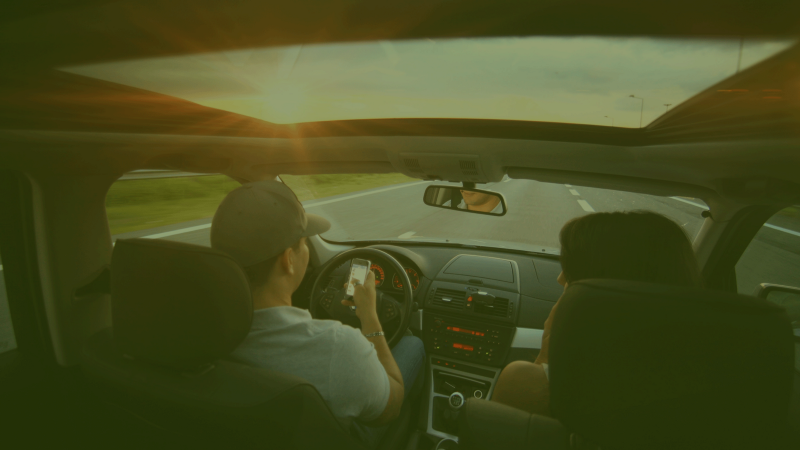
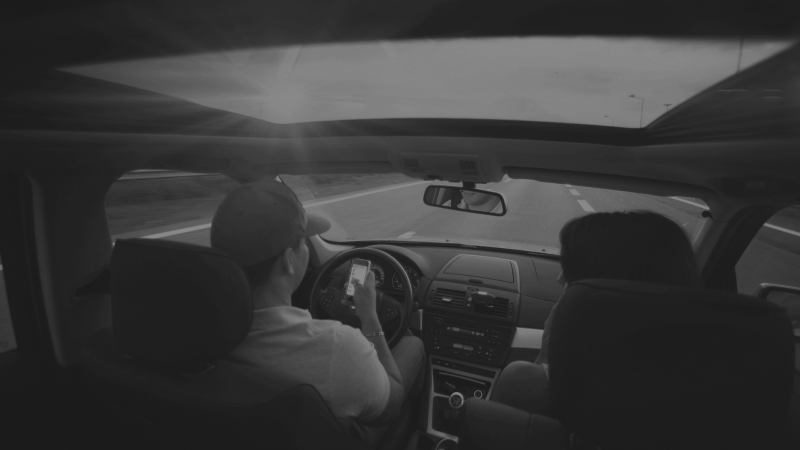
Modified B&W rides images/ centered login & register boxes

diff --git a/src/pages/register-modal/register-modal.html b/src/pages/register-modal/register-modal.html
@@ -1,18 +1,59 @@
-<!--
-  Generated template for the RegisterModalPage page.
+<ion-content class="login-content" padding>
+  <ion-grid style="height: 100%">
+    <ion-row justify-content-center align-items-center style="height: 100%">
+      <div class="login-box">
 
-  See http://ionicframework.com/docs/components/#navigation for more info on
-  Ionic pages and navigation.
--->
-<ion-header>
+        <form #registerForm="ngForm">
+          <ion-row>
+            <ion-col>
+              <ion-list inset>
 
-  <ion-navbar>
-    <ion-title>register-modal</ion-title>
-  </ion-navbar>
+                <ion-item>
+                  <ion-input type="text" placeholder="Full name" name="fullName" required></ion-input>
+                </ion-item>
 
-</ion-header>
+                <ion-item>
+                  <ion-label>Date of birth</ion-label>
+                  <ion-datetime displayFormat="DD MMM YYYY"></ion-datetime>
+                </ion-item>
 
+                <ion-item>
+                  <ion-label>Department</ion-label>
+                  <ion-select>
+                    <ion-option>Software Engineering</ion-option>
+                    <ion-option>Mechanical Engineering</ion-option>
+                    <ion-option>Process Engineering</ion-option>
+                    <ion-option>Electrical Engineering</ion-option>
+                    <ion-option>Architecture</ion-option>
+                    <ion-option>Business</ion-option>
+                  </ion-select>
+                </ion-item>
 
-<ion-content padding>
+                <ion-item>
+                  <ion-input type="email" placeholder="Email" name="email" required></ion-input>
+                </ion-item>
 
+                <ion-item>
+                  <ion-input type="password" placeholder="Password" name="password" required></ion-input>
+                </ion-item>
+
+                <ion-item>
+                  <ion-input type="password" placeholder="Password confirmation" name="password" required></ion-input>
+                </ion-item>
+
+              </ion-list>
+            </ion-col>
+          </ion-row>
+
+          <ion-row>
+            <ion-col class="signup-col">
+              <button ion-button class="submit-btn" full type="submit">Register</button>
+              <button ion-button class="register-btn" clear (click)="dismiss()">Cancel</button>
+            </ion-col>
+          </ion-row>
+
+        </form>
+      </div>
+    </ion-row>
+  </ion-grid>
 </ion-content>

diff --git a/src/pages/login/login.html b/src/pages/login/login.html
@@ -1,30 +1,34 @@
-<ion-content class="login-content" padding>
-  <div class="login-box">
+<ion-content class="login-content" padding no-bounce center>
+  <ion-grid style="height: 100%">
+    <ion-row justify-content-center align-items-center style="height: 100%">
+      <div class="login-box">
 
-    <form #registerForm="ngForm">
-      <ion-row>
-        <ion-col>
-          <ion-list inset>
+        <form #registerForm="ngForm">
+          <ion-row>
+            <ion-col>
+              <ion-list inset>
 
-            <ion-item>
-              <ion-input type="text" placeholder="Email" name="email" required></ion-input>
-            </ion-item>
+                <ion-item>
+                  <ion-input type="text" placeholder="Email" name="email" required></ion-input>
+                </ion-item>
 
-            <ion-item>
-              <ion-input type="password" placeholder="Password" name="password" required></ion-input>
-            </ion-item>
+                <ion-item>
+                  <ion-input type="password" placeholder="Password" name="password" required></ion-input>
+                </ion-item>
 
-          </ion-list>
-        </ion-col>
-      </ion-row>
+              </ion-list>
+            </ion-col>
+          </ion-row>
 
-      <ion-row>
-        <ion-col class="signup-col">
-          <button ion-button class="submit-btn" full type="submit" (click)="login()">Login</button>
-          <button ion-button class="register-btn" block clear>Create New Account</button>
-        </ion-col>
-      </ion-row>
+          <ion-row>
+            <ion-col class="signup-col">
+              <button ion-button class="submit-btn" full type="submit" (click)="login()">Login</button>
+              <button ion-button class="register-btn" block clear (click)="register()">Create New Account</button>
+            </ion-col>
+          </ion-row>
 
-    </form>
-  </div>
+        </form>
+      </div>
+    </ion-row>
+  </ion-grid>
 </ion-content>

diff --git a/src/app/app.module.ts b/src/app/app.module.ts
@@ -1,6 +1,6 @@
 import { NgModule, ErrorHandler } from '@angular/core';
 import { BrowserModule } from '@angular/platform-browser';
-import { IonicApp, IonicModule, IonicErrorHandler, NavController } from 'ionic-angular';
+import { IonicApp, IonicModule, IonicErrorHandler } from 'ionic-angular';
 import { MyApp } from './app.component';
 
 import { TabsPage } from '../pages/tabs/tabs';
@@ -12,6 +12,7 @@ import { HomePage } from "../pages/home/home";
 import { RidesPage } from "../pages/rides/rides";
 import { LoginPage } from "../pages/login/login";
 import { TabsProvider } from '../providers/tabs/tabs';
+import { RegisterModalPageModule } from "../pages/register-modal/register-modal.module";
 
 @NgModule({
   declarations: [
@@ -20,11 +21,12 @@ import { TabsProvider } from '../providers/tabs/tabs';
     ProfilePage,
     HomePage,
     RidesPage,
-    TabsPage
+    TabsPage,
   ],
   imports: [
     BrowserModule,
-    IonicModule.forRoot(MyApp)
+    IonicModule.forRoot(MyApp),
+    RegisterModalPageModule
   ],
   bootstrap: [IonicApp],
   entryComponents: [
@@ -33,7 +35,7 @@ import { TabsProvider } from '../providers/tabs/tabs';
     LoginPage,
     HomePage,
     RidesPage,
-    TabsPage
+    TabsPage,
   ],
   providers: [
     StatusBar,

diff --git a/src/pages/profile/profile.ts b/src/pages/profile/profile.ts
@@ -1,5 +1,5 @@
 import { Component } from '@angular/core';
-import { NavController, NavParams } from 'ionic-angular';
+import { NavController, NavParams, AlertController, LoadingController } from 'ionic-angular';
 import { TabsProvider } from "../../providers/tabs/tabs";
 
 @Component({
@@ -13,12 +13,33 @@ export class ProfilePage {
 
   constructor(public navCtrl: NavController
     , public navParams: NavParams
-    , public tabsProvider: TabsProvider) {
+    , public tabsProvider: TabsProvider
+    , public alertCtrl: AlertController
+    , public loadingCtrl: LoadingController) {
 
   }
 
-  logout(){
-    this.tabsProvider.updateLoggedState(false);
+  logout() {
+    const confirm = this.alertCtrl.create({
+      title: "Logout ?",
+      buttons: [
+        {
+          text: 'Cancel',
+        },
+        {
+          text: 'Logout',
+          handler: () => {
+            const loader = this.loadingCtrl.create({
+              content: "Logging out...",
+              duration: 1500
+            });
+            loader.present();
+            this.tabsProvider.updateLoggedState(false);
+          }
+        }
+      ]
+    });
+    confirm.present();
   }
 
 }

diff --git a/src/pages/login/login.ts b/src/pages/login/login.ts
@@ -1,7 +1,7 @@
 import { Component } from '@angular/core';
-import { NavController, ModalController, NavParams } from 'ionic-angular';
-import { ProfilePage } from "../profile/profile";
+import { NavController, ModalController, NavParams, ToastController } from 'ionic-angular';
 import { TabsProvider } from "../../providers/tabs/tabs";
+import { RegisterModalPage } from "../register-modal/register-modal";
 
 @Component({
   selector: 'page-login',
@@ -13,12 +13,22 @@ import { TabsProvider } from "../../providers/tabs/tabs";
 export class LoginPage {
 
   constructor(public navCtrl: NavController
-    , public modalController: ModalController
+    , public modalCtrl: ModalController
     , public navParams: NavParams
-    , public tabsProvider: TabsProvider) { }
+    , public tabsProvider: TabsProvider
+    , public toastCtrl: ToastController) { }
 
   login() {
     this.tabsProvider.updateLoggedState(true);
+    let toast = this.toastCtrl.create({
+       message: 'Logged in successfully',
+       duration: 1500
+     });
+     toast.present();
+  }
+
+  register(){
+    this.modalCtrl.create(RegisterModalPage).present();
   }
 
 }

diff --git a/src/pages/register-modal/register-modal.scss b/src/pages/register-modal/register-modal.scss
@@ -1,3 +1,54 @@
 page-register-modal {
+  .login-content {
+    background: #2c3e50;
 
+    ::-webkit-scrollbar {
+      display: none;
+    }
+
+    .login-box {
+      background: #EEE8AA;
+      padding: 4rem 20px 0;
+      box-shadow: 0 19px 38px rgba(0,0,0,0.30), 0 15px 12px rgba(0,0,0,0.22);
+      border-radius: 0.5rem;
+      width: 100%;
+    }
+
+    ion-row {
+      align-items: center;
+      text-align: center;
+    }
+
+    ion-item {
+      border-radius: 30px !important;
+      padding-left: 30px !important;
+      font-size: 0.9em;
+      margin-bottom: 10px;
+      border: 1px solid #ffffff;
+      border-bottom: 0 !important;
+      box-shadow: none !important;
+    }
+
+    .signup-col {
+      margin: 0 16px;
+      padding-bottom: 10px;
+    }
+
+    .item-inner {
+      border-bottom-color: #ffffff !important;
+      box-shadow: none !important;
+    }
+
+    .submit-btn {
+      background: #D1D1D1;
+      border-radius: 30px !important;
+      border: 1px solid #fff;
+    }
+
+    .register-btn {
+      color: #f53d3d;
+      font-size: 0.8em;
+      margin-top: 2rem;
+    }
+  }
 }

diff --git a/src/pages/profile/profile.html b/src/pages/profile/profile.html
@@ -23,14 +23,18 @@
       </ion-item>
       <ion-item>
         <ion-label color="dark" fixed>Departement</ion-label>
-        <ion-note item-end>Computer science</ion-note>
+        <ion-note item-end>Software Engineering</ion-note>
       </ion-item>
     </ion-item-group>
     <ion-item-group>
       <ion-item-divider>Settings</ion-item-divider>
       <ion-item>
-        <ion-label color="dark" fixed>Account type</ion-label>
-        <ion-note item-end>Rider & Driver</ion-note>
+        <ion-label>Driver</ion-label>
+        <ion-toggle checked="true"></ion-toggle>
+      </ion-item>
+      <ion-item>
+        <ion-label>Rider</ion-label>
+        <ion-toggle checked="false"></ion-toggle>
       </ion-item>
     </ion-item-group>
   </ion-list>

diff --git a/src/pages/register-modal/register-modal.ts b/src/pages/register-modal/register-modal.ts
@@ -1,17 +1,23 @@
 import { Component } from '@angular/core';
-import { IonicPage, NavController, NavParams } from 'ionic-angular';
+import { IonicPage, NavController, NavParams, ViewController } from 'ionic-angular';
 
 
 @IonicPage()
 @Component({
   selector: 'page-register-modal',
   templateUrl: 'register-modal.html',
+  styles: [
+    './register-modal.scss',
+  ],
 })
 export class RegisterModalPage {
 
   constructor(public navCtrl: NavController
-    , public navParams: NavParams) {
+    , public navParams: NavParams
+    , public viewCtrl: ViewController) {
   }
 
-
+  dismiss(){
+    this.viewCtrl.dismiss();
+  }
 }

diff --git a/src/pages/login/login.module.ts b/src/pages/login/login.module.ts
@@ -2,6 +2,7 @@ import { NgModule } from '@angular/core';
 import { IonicPageModule } from 'ionic-angular';
 import { LoginPage } from './login'
 import { TabsProvider } from "../../providers/tabs/tabs";
+import { RegisterModalPage } from "../register-modal/register-modal";
 
 @NgModule({
   declarations: [
@@ -12,6 +13,7 @@ import { TabsProvider } from "../../providers/tabs/tabs";
   ],
   entryComponents: [
     LoginPage,
+    RegisterModalPage,
   ],
   providers: [
     TabsProvider,

diff --git a/src/pages/login/login.scss b/src/pages/login/login.scss
@@ -9,9 +9,9 @@ page-login {
     .login-box {
       background: #EEE8AA;
       padding: 20px 20px 0;
-      margin-top: 10rem;
       box-shadow: 0 19px 38px rgba(0,0,0,0.30), 0 15px 12px rgba(0,0,0,0.22);
       border-radius: 0.5rem;
+      width: 100%;
     }
 
     ion-row {

diff --git a/src/providers/tabs/tabs.ts b/src/providers/tabs/tabs.ts
@@ -1,6 +1,4 @@
 import { Injectable } from '@angular/core';
-import { NavController } from "ionic-angular";
-import { TabsPage } from "../../pages/tabs/tabs";
 import { Subject } from "rxjs/Subject";
 import { Observable } from "rxjs/Observable";
 

diff --git a/src/pages/rides/rides.scss b/src/pages/rides/rides.scss
@@ -2,7 +2,7 @@ page-rides {
   ::-webkit-scrollbar {
     display: none;
   }
-  
+
   background: #2c3e50;
 
   .card-background-page {
